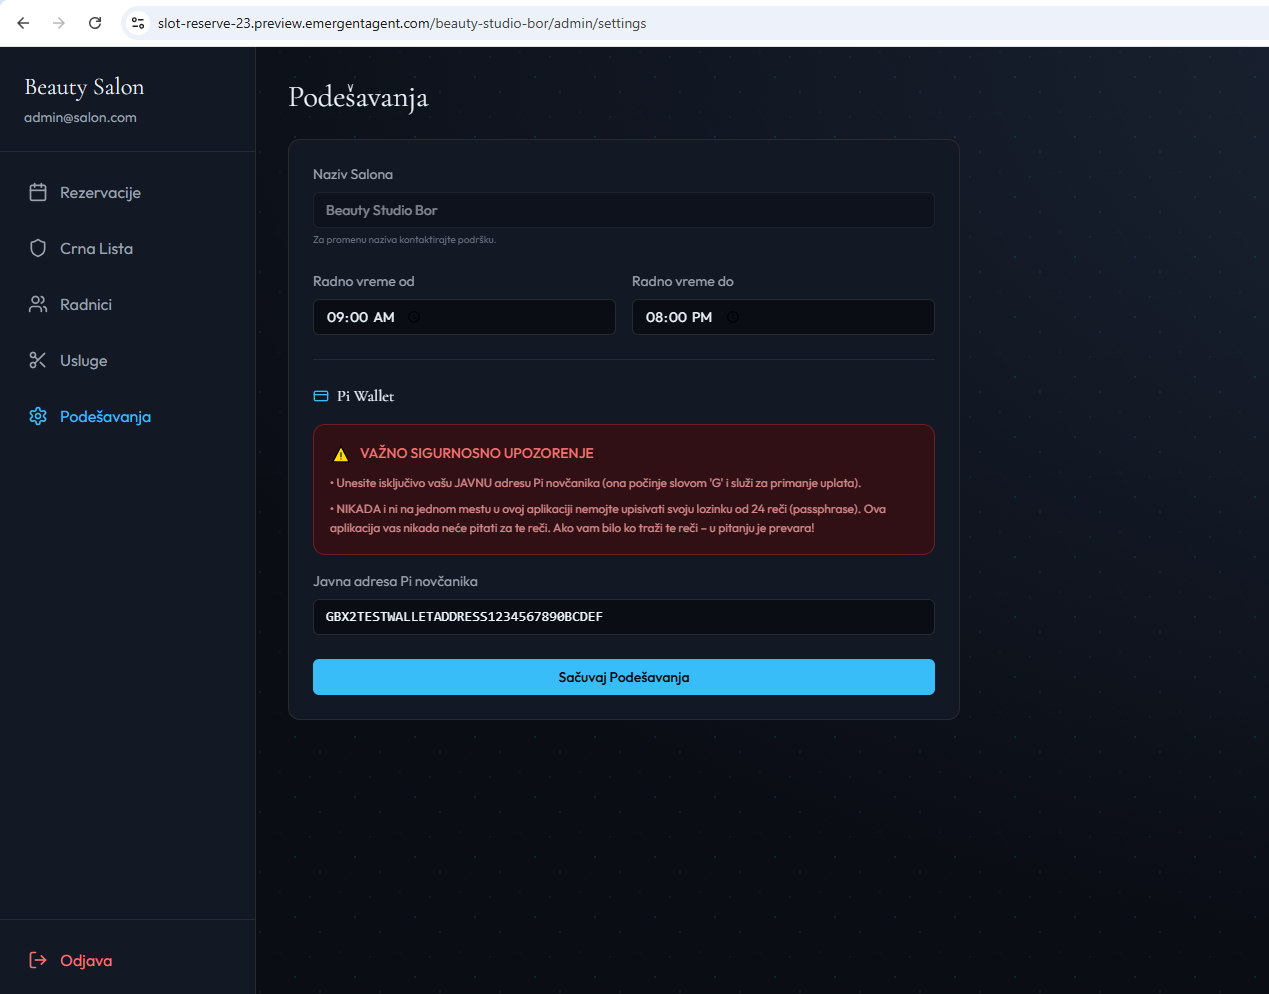
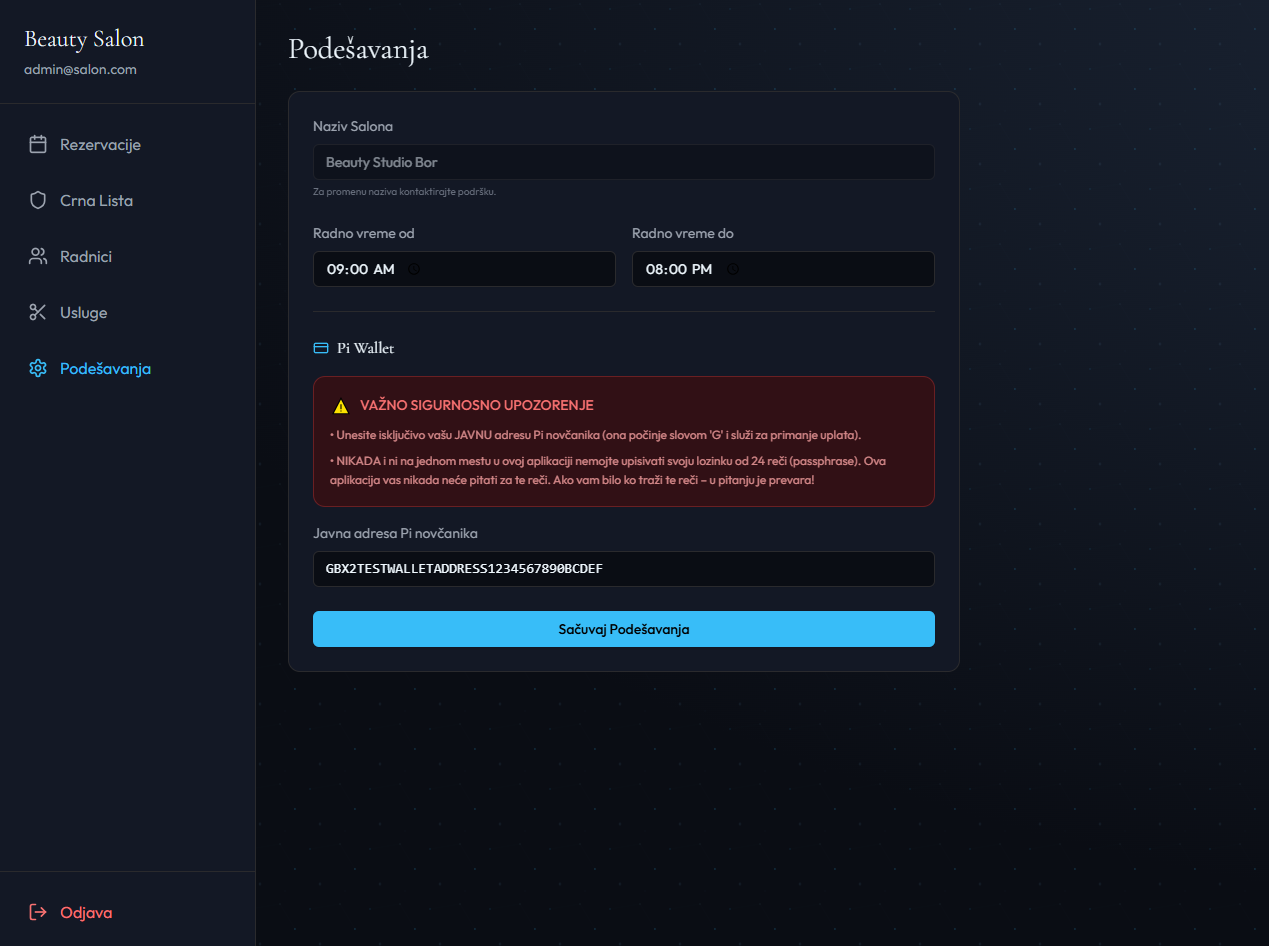
## Sva tri unapređenja na /vlasnici su gotova - **Uvećanje slike**: klik na sliku ili na dugme „Uvećaj" otvara je preko celog ekrana. Zatvara se na X, klikom pored slike ili tasterom Esc. - **Čista slika podešavanja**: sa vrha `settings.png` je isečena adresna traka pregledača, pa se u okviru vidi s
Izmenjeni fajlovi su `OwnersPage.jsx` i `settings.png`. Isečena slika postoji samo u ovom radnom okruženju. Ako ponovo preuzmete slike sa GitHub-a, vratiće se stara verzija sa adresnom trakom, pa sačuvajte novu verziju preko „Save to Github".

## Next Action Items
- **Prikaz na telefonu**: Add phone-sized screenshots so mobile visitors see the app clearly without zooming
- **Snimak zakazivanja**: Add a fifth tab showing what clients see when booking an appointment
- **Potvrda brisanja**: Show a confirmation window before a service is permanently deleted, so nothing gets removed by accident

Emergent-Commit-Key: 60154bd67c15550f482c6852c5af6e1e27081ab00b0cee7fd63f45b799e157d6

diff --git a/frontend/src/pages/OwnersPage.jsx b/frontend/src/pages/OwnersPage.jsx
@@ -1,6 +1,7 @@
-import { useState } from "react";
+import { useState, useEffect } from "react";
+import { Dialog, DialogContent, DialogTitle, DialogDescription } from "../components/ui/dialog";
 import { Link } from "react-router-dom";
-import { ChevronLeft, Settings, Tag, Users, CalendarDays, Sparkles, Send, ImageIcon } from "lucide-react";
+import { ChevronLeft, Settings, Tag, Users, CalendarDays, Sparkles, Send, ImageIcon, Maximize2 } from "lucide-react";
 
 // Postavite skrinšotove u /app/frontend/public/mockups/ sa navedenim imenima
 const FEATURES = [
@@ -19,7 +20,7 @@ const MockupPlaceholder = ({ title }) => (
   </div>
 );
 
-const BrowserMockup = ({ feature }) => {
+const BrowserMockup = ({ feature, onZoom }) => {
   const [failed, setFailed] = useState({});
   return (
     <div className="relative" data-testid="feature-mockup">
@@ -33,7 +34,7 @@ const BrowserMockup = ({ feature }) => {
             beautymepi.app/vas-salon/admin
           </div>
         </div>
-        <div className="relative aspect-[16/10]">
+        <div className="relative aspect-[16/10] group">
           {failed[feature.id] ? (
             <MockupPlaceholder title={feature.title} />
           ) : (
@@ -42,9 +43,21 @@ const BrowserMockup = ({ feature }) => {
               src={feature.image}
               alt={feature.title}
               onError={() => setFailed((f) => ({ ...f, [feature.id]: true }))}
-              className="absolute inset-0 w-full h-full object-cover object-top animate-in fade-in duration-500"
+              onClick={onZoom}
+              className="absolute inset-0 w-full h-full object-cover object-top cursor-zoom-in animate-in fade-in duration-500"
               data-testid={`mockup-image-${feature.id}`}
             />
+          )}
+          {!failed[feature.id] && (
+            <button
+              type="button"
+              onClick={onZoom}
+              className="absolute bottom-3 right-3 flex items-center gap-1.5 px-2.5 py-1.5 rounded-lg bg-black/70 backdrop-blur-md border border-white/10 text-xs text-white opacity-80 group-hover:opacity-100 transition-opacity"
+              data-testid="mockup-zoom-btn"
+            >
+              <Maximize2 className="w-3.5 h-3.5" />
+              Uvećaj
+            </button>
           )}
         </div>
       </div>
@@ -54,7 +67,18 @@ const BrowserMockup = ({ feature }) => {
 
 const OwnersPage = () => {
   const [activeTab, setActiveTab] = useState("setup");
+  const [paused, setPaused] = useState(false);
+  const [zoomOpen, setZoomOpen] = useState(false);
   const active = FEATURES.find((f) => f.id === activeTab) || FEATURES[0];
+
+  useEffect(() => {
+    if (paused || zoomOpen) return;
+    const t = setTimeout(() => {
+      const i = FEATURES.findIndex((f) => f.id === activeTab);
+      setActiveTab(FEATURES[(i + 1) % FEATURES.length].id);
+    }, 5000);
+    return () => clearTimeout(t);
+  }, [activeTab, paused, zoomOpen]);
 
   return (
     <div className="min-h-screen bg-transparent text-white">
@@ -69,7 +93,7 @@ const OwnersPage = () => {
           <p className="text-[#9CA3AF] leading-relaxed max-w-md mx-auto">Pogledajte kako izgleda upravljanje vašim salonom u BeautyMePi aplikaciji.</p>
         </div>
 
-        <section className="mb-16" data-testid="feature-showcase">
+        <section className="mb-16" data-testid="feature-showcase" onMouseEnter={() => setPaused(true)} onMouseLeave={() => setPaused(false)}>
           <h2 className="text-xs uppercase tracking-[0.2em] text-[#6B7280] mb-4 text-center">Prikaz funkcionalnosti</h2>
           <div className="flex gap-2 overflow-x-auto pb-2 mb-8 sm:justify-center scrollbar-hide">
             {FEATURES.map((f) => {
@@ -93,13 +117,26 @@ const OwnersPage = () => {
             })}
           </div>
 
-          <BrowserMockup feature={active} />
+          <BrowserMockup feature={active} onZoom={() => setZoomOpen(true)} />
+          <div className="flex justify-center gap-1.5 mt-5" data-testid="feature-progress">
+            {FEATURES.map((f) => (
+              <span key={f.id} className={`h-1 rounded-full transition-all duration-300 ${f.id === activeTab ? "w-6 bg-[var(--color-primary)]" : "w-1.5 bg-[#2A2A2D]"}`} />
+            ))}
+          </div>
 
           <div className="mt-6 text-center" data-testid="feature-active-desc">
             <h3 className="font-medium text-white mb-1">{active.title}</h3>
             <p className="text-sm text-[#9CA3AF]">{active.desc}</p>
           </div>
         </section>
+
+        <Dialog open={zoomOpen} onOpenChange={setZoomOpen}>
+          <DialogContent className="w-[96vw] max-w-6xl p-2 bg-[#0A0D14] border-[#2A2A2D]" data-testid="mockup-lightbox">
+            <DialogTitle className="sr-only">{active.title}</DialogTitle>
+            <DialogDescription className="sr-only">{active.desc}</DialogDescription>
+            <img src={active.image} alt={active.title} className="w-full h-auto max-h-[88vh] object-contain rounded-lg" data-testid="mockup-lightbox-image" />
+          </DialogContent>
+        </Dialog>
 
         <div className="bg-gradient-to-br from-[var(--color-primary)]/8 to-transparent border border-[var(--color-primary)]/20 rounded-2xl p-8 text-center" data-testid="owners-activation-cta">
           <div className="w-12 h-12 rounded-xl bg-[var(--color-primary)]/10 flex items-center justify-center mx-auto mb-4">

diff --git a/memory/PRD.md b/memory/PRD.md
@@ -39,3 +39,4 @@ sr (Srpski), en (English), id (Bahasa Indonesia), tl (Filipino/Tagalog), pt-BR (
 - /vlasnici: video placeholders replaced with browser-frame mockup showcase (4 tabs), images at /frontend/public/mockups/{settings,services,workers,calendar}.png with fallback placeholder; activation card with Pi @Markonijus23 + bornaja23@gmail.com
 - Demo salon renamed to Beauty Studio Bor; Pi wallet seeded
 - Admin Usluge: categories as collapsible sections (first open by default), "Otvori sve"/"Zatvori sve" buttons
+- /vlasnici: mockup lightbox (Uvećaj / click image), auto-rotating tabs every 5s (pauses on hover & while lightbox open), progress dots; settings.png cropped (browser bar removed)
